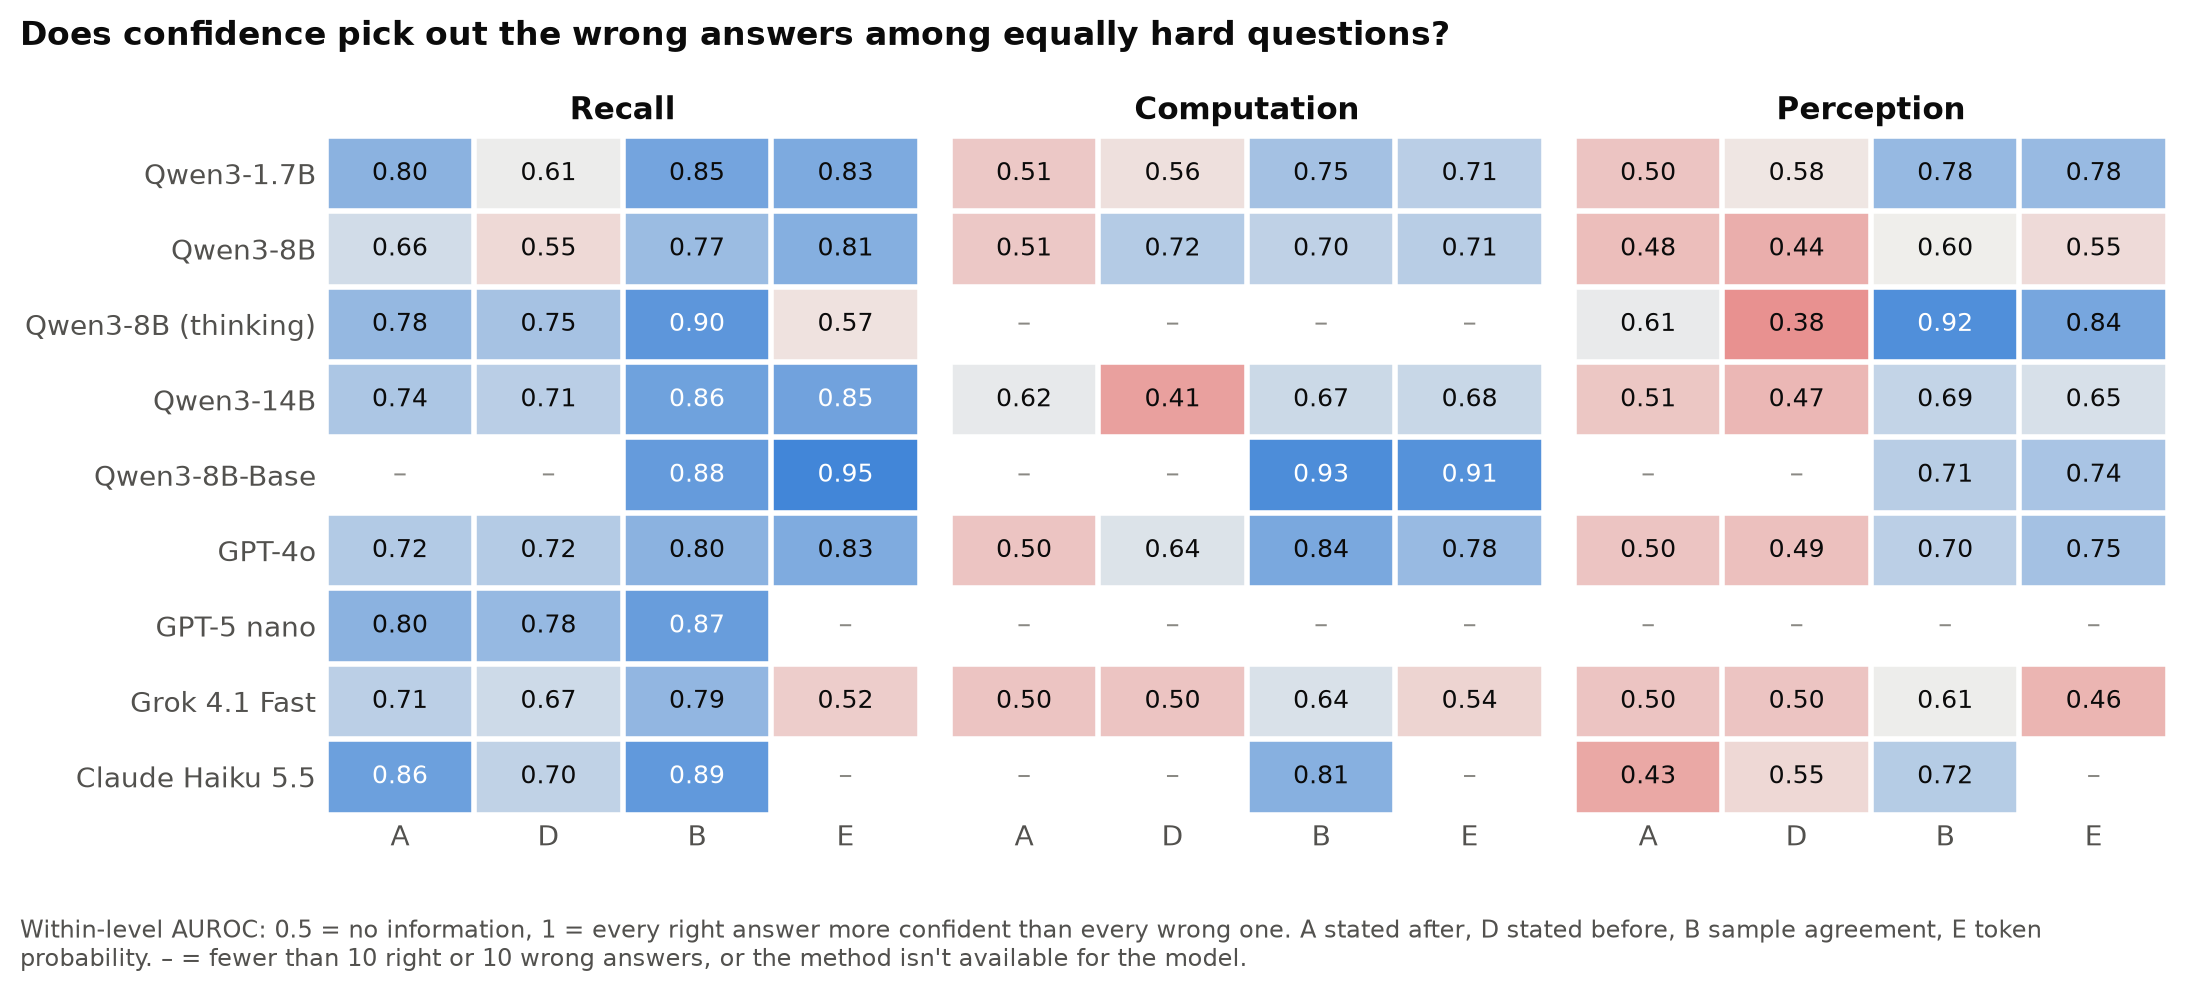
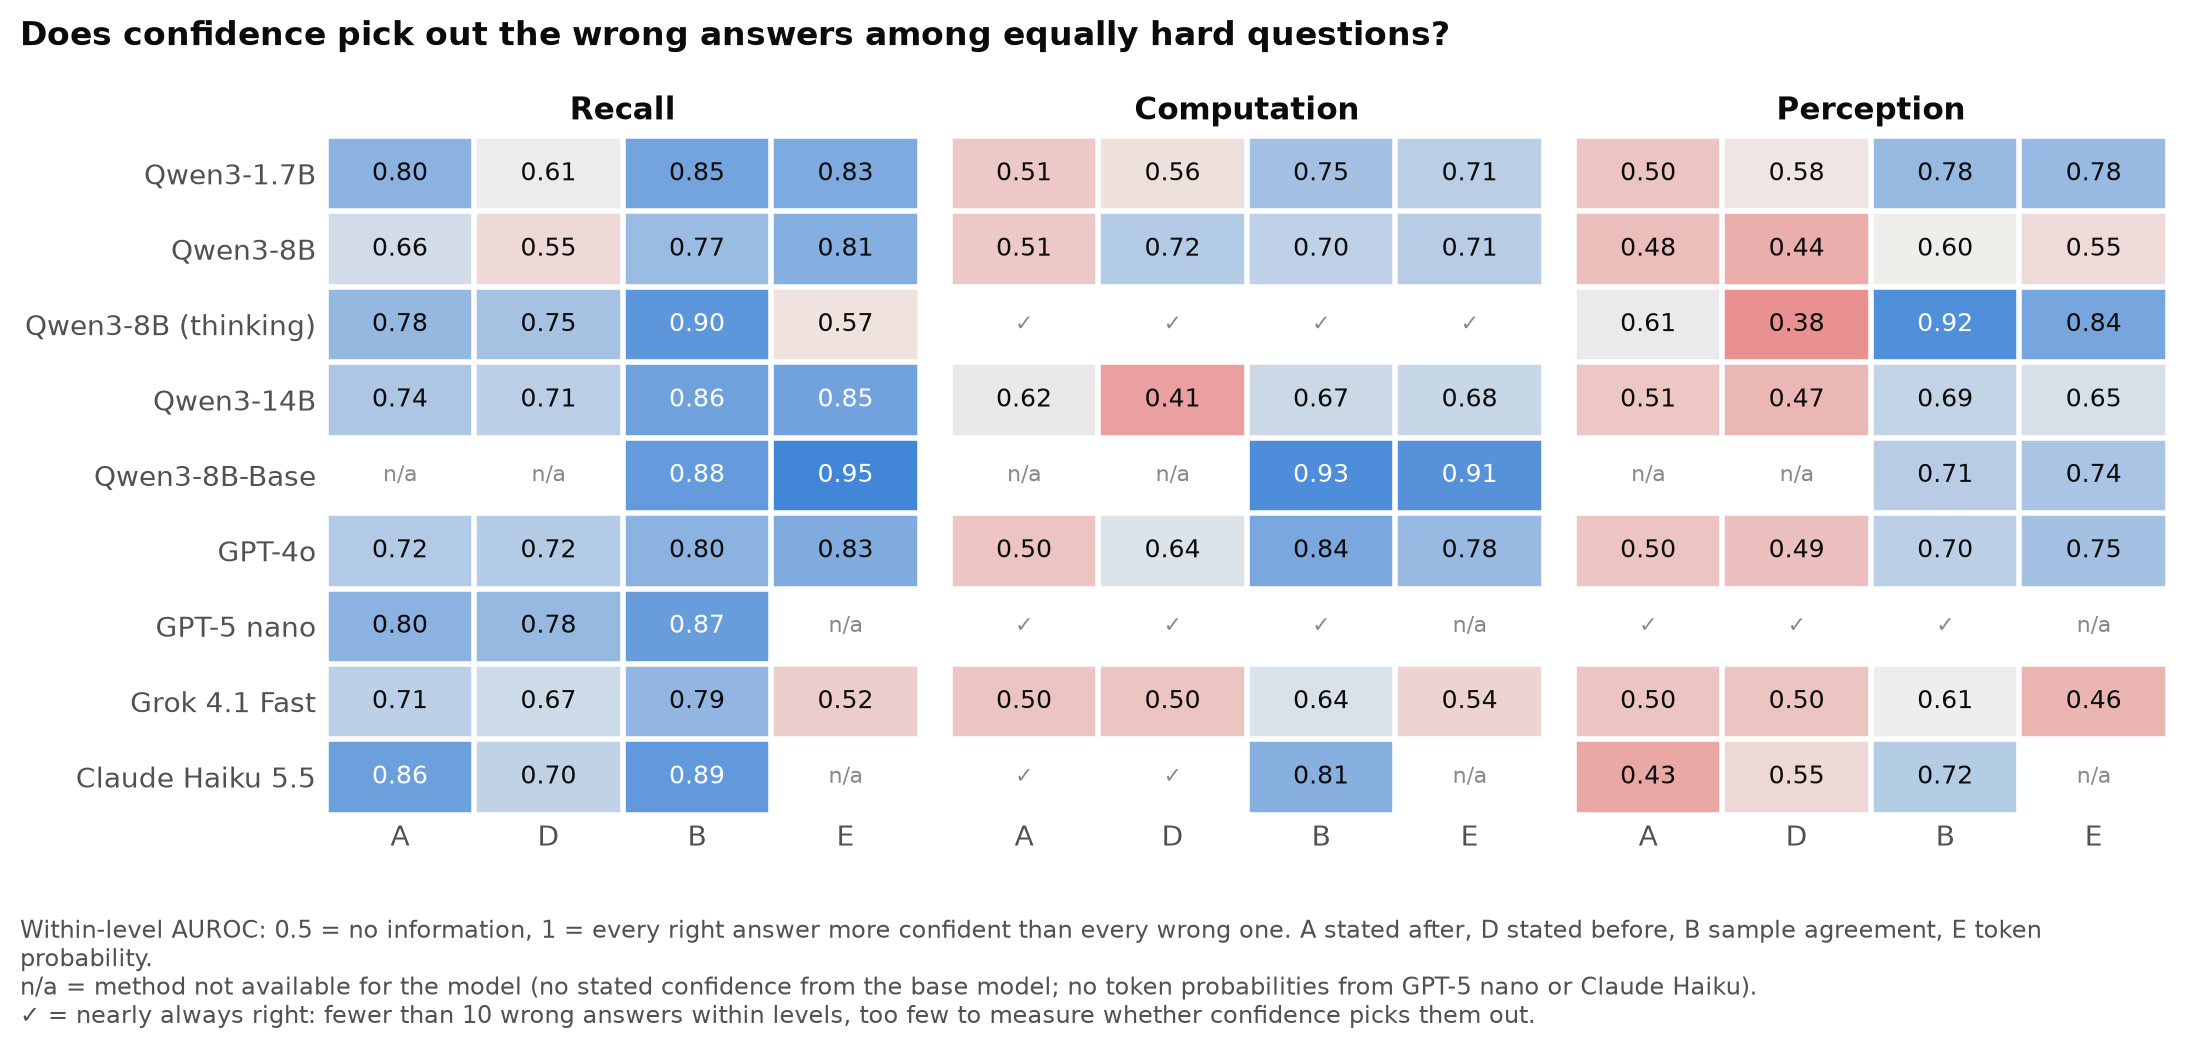
COnfidence Audit humanised

diff --git a/docs/blog/posts/2026-11-08-confidence-audit.md b/docs/blog/posts/2026-11-08-confidence-audit.md
@@ -17,24 +17,24 @@ Ask a language model any question today and you can expect an answer. Ask it how
 
 <!-- more -->
 
-Most language models have become adept at answering questions convincingly. With reasoning models going through several stages and iterations, the accuracy of their answers have increased while hallucinations have decreased.
+Most language models have become adept at answering questions convincingly. With reasoning models going through several stages and iterations, the accuracy of their answers have increased. But models, both the vanilla ones and the more sophisticated reasoning ones, hallucinate. 
 
-## Hallucination is a confidence problem
+## Hallucination as a confidence problem
 
-A **hallucination**{: .rust} is a plausible but false statement made by a model, as Kalai et al. put it in *Why Language Models Hallucinate*. Their argument is that hallucinations are not a mysterious glitch but a statistical consequence of how models are built. Pre-training makes some errors unavoidable, especially on facts that appear rarely in the training data. Post-training then optimises models for benchmarks that score a right answer 1 and both a wrong answer and "I don't know" 0. Under that grading, guessing always beats admitting uncertainty, so a model learns to answer confidently whether or not it knows.
+In [Why Language Models Hallucinate](https://arxiv.org/abs/2509.04664), Kalai et al. explain a **hallucination**{: .rust} as a plausible but false statement made by a model. Hallucinations according to them, are not a mysterious glitch but a statistical consequence of how models are built. Pre-training makes some errors unavoidable, especially on **singleton facts**{: .rust} that appear rarely in the training data, but which the model is still forced to accommodate due to binary classification pressures. Post-training then optimises models for **test-taking benchmarks**{: .rust} that score a right answer as 1 and both a wrong answer and an "I don't know" as 0. Under that grading, guessing always beats admitting uncertainty, so a model learns to answer confidently whether or not it knows.
 
-That makes hallucination as much about confidence as about accuracy. A wrong answer flagged as uncertain is one a user, or a system built around the model, can check. The same wrong answer delivered with full confidence is the one that does the damage. If a model's confidence reliably separates its right answers from its wrong ones, its hallucinations can be caught; if it doesn't, they can't. That separation is what this audit measures.
+That makes hallucination as much about confidence as about accuracy. A wrong answer flagged as uncertain is one a user, or a system built around the model, can check. The same wrong answer delivered with full confidence is the one that does the damage. But what about reasoning models?
 
-Reasoning models sharpen the question. Thinking before answering raises accuracy, sometimes dramatically, but it does not follow that a model knows better when it is *still* wrong. Mei et al. (*Reasoning about Uncertainty: Do Reasoning Models Know When They Don't Know?*, 2025) found that reasoning models typically state 85% confidence or more even on answers they get wrong, and that on those wrong answers they grow **more overconfident the longer they reason**{: .rust}. Zeng et al. (*Thinking Out Loud: Do Reasoning Models Know When They're Right?*, EMNLP 2025) found that reasoning training improves calibration on reasoning-heavy tasks but much less consistently on factual questions, where open reasoning models say "I don't know" far less often than ordinary instruction-tuned ones. One intuition: a chain of thought builds an argument for its answer, and the argument persuades the model that wrote it as much as the reader. The audit includes one model with thinking on and off, on the same weights, to test this directly.
+Thinking before answering raises accuracy, sometimes dramatically, but it does not follow that a model knows better when it is *still* wrong. In [Reasoning about Uncertainty: Do Reasoning Models Know When They Don't Know?](https://arxiv.org/abs/2506.18183) Mei et al. found that reasoning models typically state 85% confidence or more even on answers they get wrong, and that on those wrong answers they grow **more overconfident the longer they reason**{: .rust}. Zeng et al. in [Thinking Out Loud: Do Reasoning Models Know When They're Right?](https://arxiv.org/abs/2504.06564) found that reasoning training improves calibration on reasoning-heavy tasks but much less consistently on factual questions, where open reasoning models say "I don't know" far less often than ordinary instruction-tuned ones.
 
-## What this builds on
+Pre-trained base models are naturally well-calibrated because they are optimised using cross-entropy loss. But reasoning models undergo post-training with methods like RLHF and instruction tuning which are often incentivised for confidence by their human rewarders, thereby losing their base calibration. Another intuition: a chain of thought builds an argument for its answer, and the argument persuades the model that wrote it as much as the reader. That is what leads to autoregressive stubbornness where a mistake made in an earlier stage of reasoning is justified and compounded further down the chain. The audit includes one model with thinking on and off, on the same weights, to test this directly.
 
-Four papers shaped the design:
+## What we build on
 
-- **[Why Language Models Hallucinate](https://arxiv.org/abs/2509.04664)** (Kalai et al., 2025). The theory above, two predictions the audit tests (pre-training yields calibrated probabilities and post-training erodes them; a model that knows its confidence should abstain more as the penalty for a wrong answer rises), and one of the seven methods: a confidence threshold stated in the prompt.
-- **[ConfidenceBench](https://arxiv.org/abs/2607.20526)** (ffrench-Constant et al., 2026). Verbal confidence from 15 frontier models on 200 multiple-choice questions in four categories, one of them unknowable, scored with Brier. It found that the most accurate model is not the best calibrated, but it reports no results per category. Grading self-knowledge separately for each kind of question, with difficulty held fixed, is what this audit adds.
-- **[Towards Fully Exploiting LLM Internal States to Enhance Knowledge Boundary Perception](https://aclanthology.org/2025.acl-long.1184/)** (Ni et al., ACL 2025). A probe on a model's hidden states predicts whether it will answer a factual question correctly, almost as well *before* it generates the answer as after. That raises the question of whether confidence asked before answering differs from confidence asked after, which the audit tests on the words, and the next post tests on the hidden states.
-- **[ForecastBench](https://arxiv.org/abs/2409.19839)** (Karger et al., 2024). Questions about events that had not happened when the models were trained, so the answers cannot have been memorised. The audit's forecasting questions come from its question sets.
+We base this study on other works that try to tackle the confidence measurement problem.
+
+- [ConfidenceBench](https://arxiv.org/abs/2607.20526) (ffrench-Constant et al., 2026) extracts verbal confidence from 15 frontier models on 200 multiple-choice questions in four categories, one of them unknowable, scored with Brier. It found that the most accurate model is not the best calibrated, but it reports no results per category. Grading self-knowledge separately for each kind of question, with difficulty held fixed, is what this audit adds.
+- [ForecastBench](https://arxiv.org/abs/2409.19839) (Karger et al., 2024). Questions about events that had not happened when the models were trained, so the answers cannot have been memorised. The audit's forecasting questions come from its question sets.
 
 The other confidence signals in the audit, agreement across a model's own samples and the probability it puts on its answer tokens, are standard measures from the wider calibration literature.
 
@@ -77,20 +77,20 @@ Two of these are things the model *says* (A after answering, D before it, a feel
 
 The nine configurations were picked to exercise the methods rather than to rank vendors:
 
-| Model | Where | What it tests |
-| --- | --- | --- |
-| Qwen3-1.7B, 8B, 14B | local RTX 4090 | size within one family, every method including E |
-| Qwen3-8B, thinking on | local | reasoning on vs off, same weights |
-| Qwen3-8B-Base | local | base vs instruct (few-shot; P, B, E only) |
-| GPT-4o, Grok 4.1 Fast | Azure AI Foundry | other vendors, with token probabilities |
-| GPT-5 nano | Azure AI Foundry | a closed reasoning model, no token probabilities |
-| Claude Haiku 5.5 | Anthropic API | no temperature control, no token probabilities |
+| Model                 | Where            | What it tests                                    |
+| --------------------- | ---------------- | ------------------------------------------------ |
+| Qwen3-1.7B, 8B, 14B   | local RTX 4090   | size within one family, every method including E |
+| Qwen3-8B, thinking on | local RTX 4090   | reasoning on vs off, same weights                |
+| Qwen3-8B-Base         | local RTX 4090   | base vs instruct (few-shot; P, B, E only)        |
+| GPT-4o, Grok 4.1 Fast | Azure AI Foundry | other vendors, with token probabilities          |
+| GPT-5 nano            | Azure AI Foundry | a closed reasoning model, no token probabilities |
+| Claude Haiku 5.5      | Anthropic API    | no temperature control, no token probabilities   |
 
 The whole thing came to about 100,000 model calls and **under $7**{: .rust}: about $5.80 on Foundry, $0.30 for Claude, and the 4090's electricity.
 
 ## Grading without fooling ourselves
 
-Arithmetic and spelling can be marked by code. "Who wrote X?" mostly can too, by matching against known aliases. But "did this response correct the false premise?" needs a judge, and the first judge we tried (Qwen3-14B) agreed with a hand-labelled set only 77 times out of 120. It stumbled on bare refusals like "Unknown." and on denials that happened to contain a year.
+Arithmetic and spelling can be marked by code. "Who wrote X?" mostly can too, by matching against known aliases. But "did this response correct the false premise?" needs a judge, and the first judge we tried (Qwen3-14B) agreed with a hand-labelled set only 77 times out of 120. It stumbled on bare refusals like "Unknown" and on denials that happened to contain a year.
 
 ```mermaid
 flowchart LR
@@ -111,11 +111,14 @@ So we built the grader the other way round: code rules for everything they can d
 
 ## Two kinds of self-knowledge
 
-Before the results, one distinction that decides how to read them. The standard measure of whether confidence separates right from wrong is AUROC: the chance that a randomly chosen right answer carries more confidence than a randomly chosen wrong one (0.5 is a coin toss, 1.0 is perfect). But a model can score well on it by knowing only that *long multiplications are risky and short ones are safe*. That's real self-knowledge, but coarse. The finer skill is knowing which of several equally hard answers is the wrong one.
+Before getting into the results, there is one distinction that helps us on how to read them. The standard measure of whether confidence separates right from wrong is [AUROC](https://en.wikipedia.org/wiki/Receiver_operating_characteristic), the chance that a randomly chosen right answer carries more confidence than a randomly chosen wrong one (0.5 is a coin toss, 1.0 is perfect). But a model can score well on it by knowing only that *long multiplications are risky and short ones are safe*. That's real self-knowledge, but coarse. The finer skill is knowing which of several equally hard answers is the wrong one.
 
 ![](../images/confidence_within_level_explainer.png)
 
-**Within-level AUROC**{: .rust} keeps only the second kind, by comparing right and wrong answers only inside the same difficulty level. (The obvious tool from human metacognition research, meta-d′, needs a two-choice task to measure against; open-ended answers don't have one, so we control for difficulty this way instead, plus a regression with a separate baseline for every model × category × level.)
+**Within-level AUROC**{: .rust} keeps only the second kind, by comparing right and wrong answers only inside the same difficulty level. 
+
+???+ info "Parallels with human metacognition research"
+    The corresponding tool from human metacognition research, **meta-d′**{: .rust}, (see [A signal detection theoretic approach for estimating metacognitive sensitivity from confidence ratings](https://www.sciencedirect.com/science/article/pii/S1053810011002303),) needs a two-choice task to measure against; open-ended answers don't have one, so we control for difficulty this way instead, plus a regression with a separate baseline for every model × category × level.
 
 ## What they say vs what they do
 
@@ -152,7 +155,7 @@ That fits the mechanism. A model has some internal sense of how familiar a fact 
 
 ## The hard-easy effect, but only in the words
 
-Psychologists have long seen people overconfident on hard questions and underconfident on easy ones. The models show half of it:
+Psychologists have long seen people overconfident on hard questions and underconfident on easy ones (see Lichtenstein, S. & Fischhoff, B. [Do those who know more also know more about how much they know?](https://www.sciencedirect.com/science/article/pii/0030507377900010). The models show half of it:
 
 ![](../images/confidence_hard_easy.png)
 
@@ -201,7 +204,7 @@ The penalty has a less welcome effect on false premises: models stop correcting 
 
 ## Forecasting, for completeness
 
-Confidence about the world rather than about oneself, so it is kept apart. On 75 market questions that resolved after every model's training cutoff:
+This shows confidence about the world rather than about oneself, so it is kept apart. On 75 market questions that resolved after every model's training cutoff:
 
 ![](../images/confidence_forecasts.png)
 
